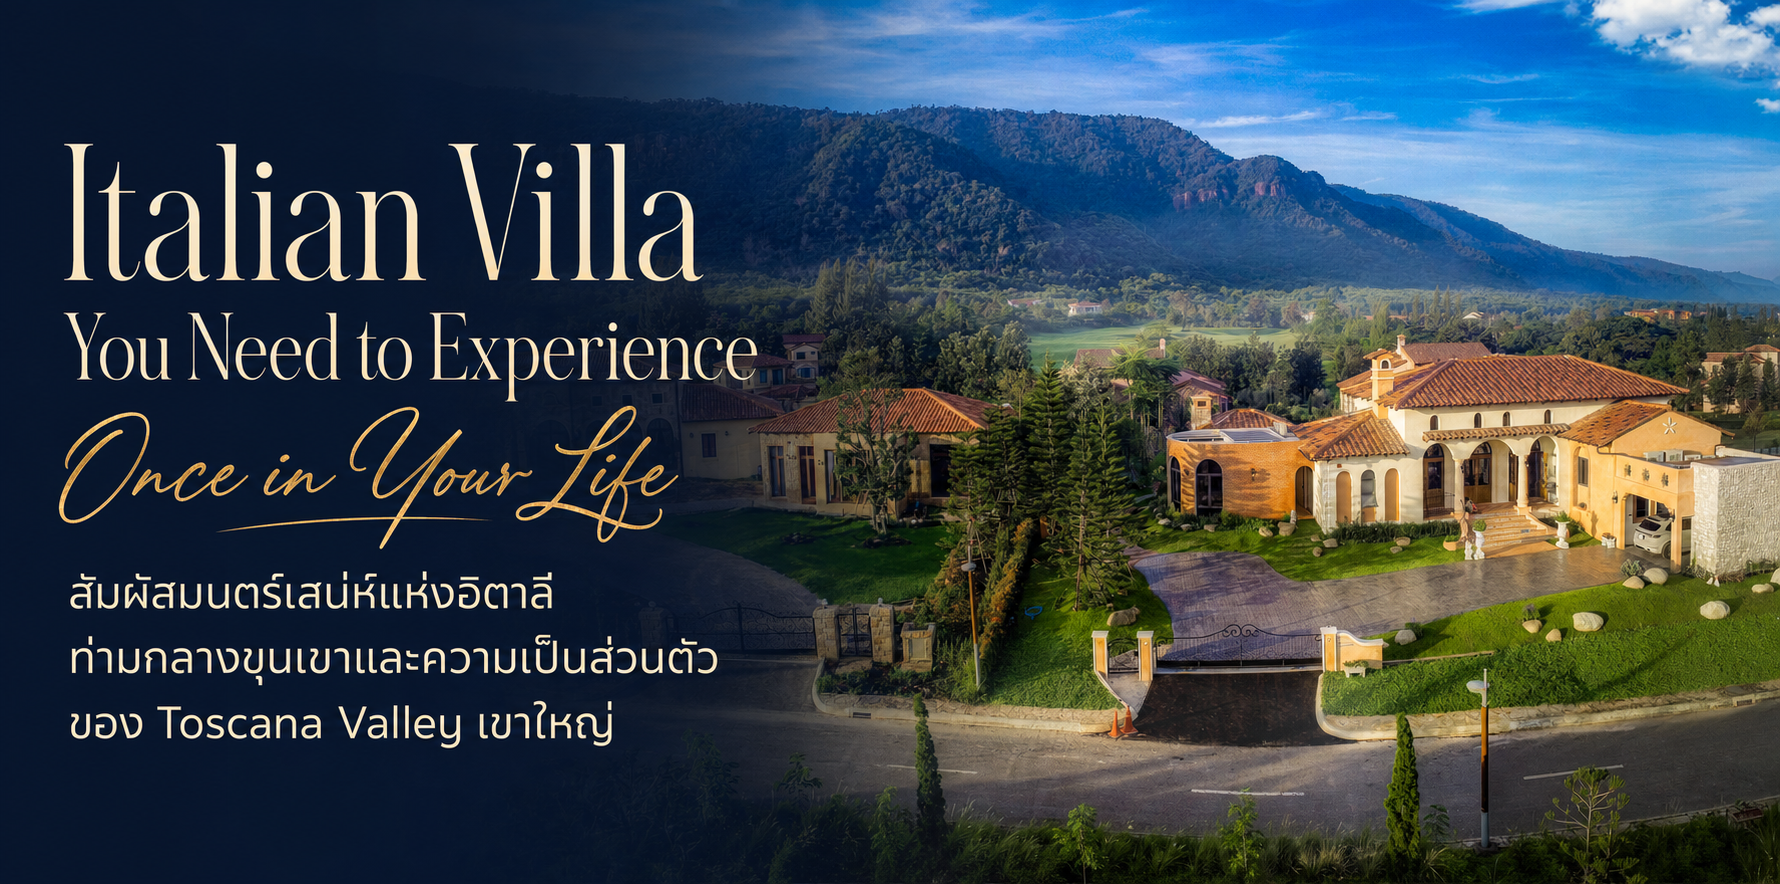
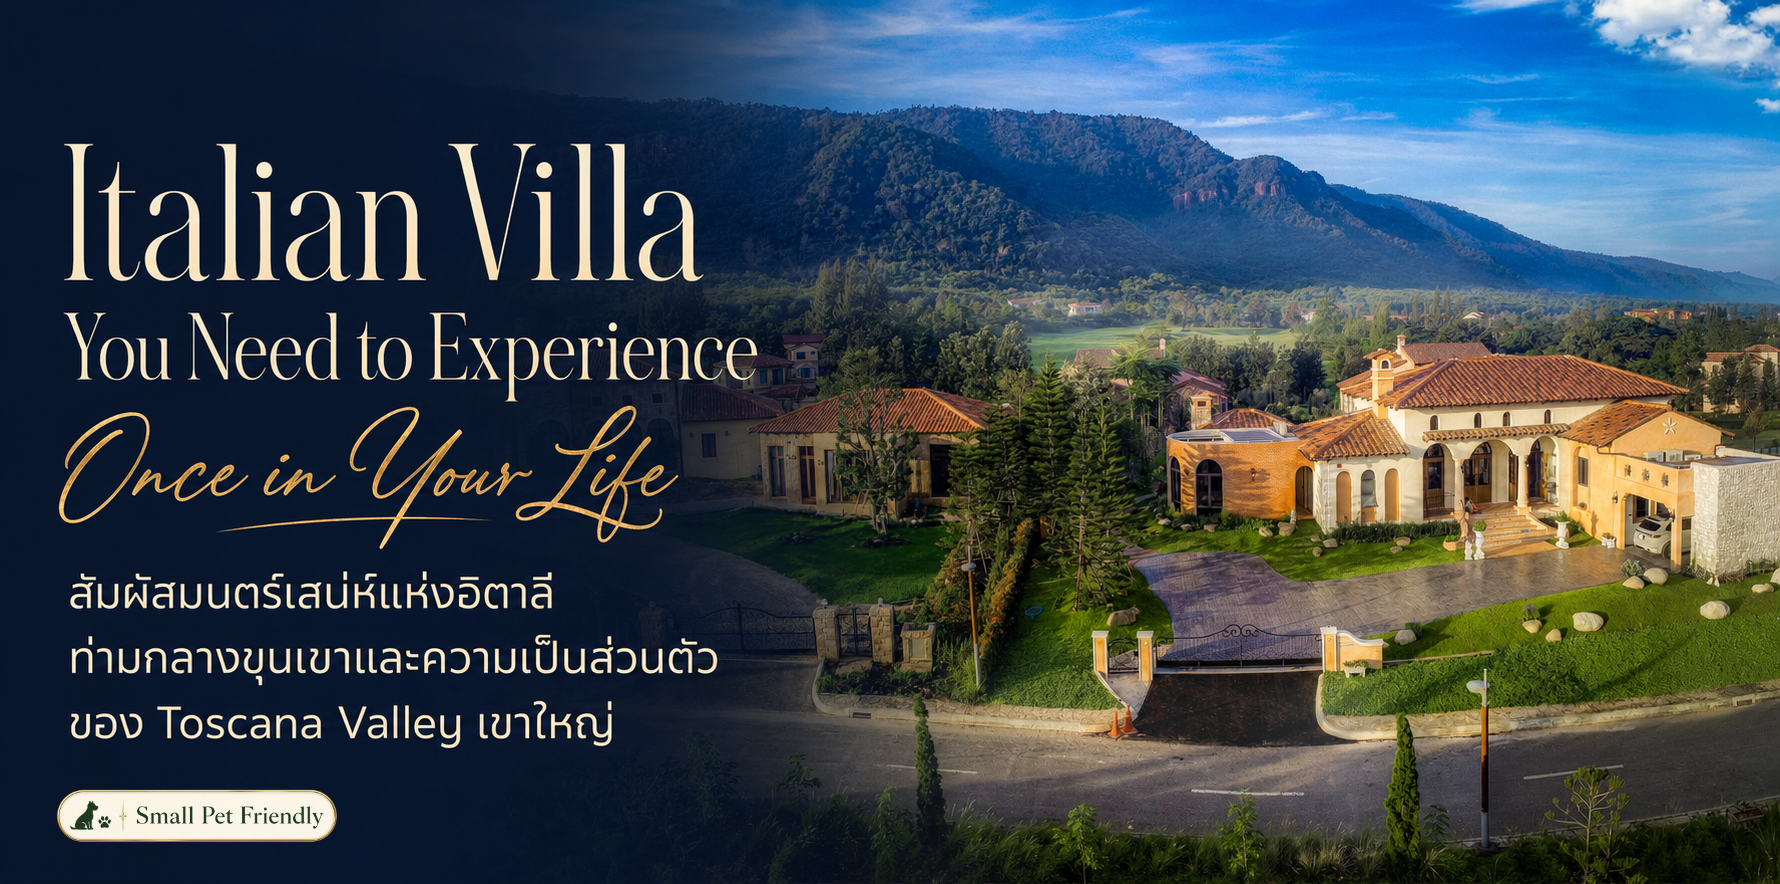
Update site header and remove pet badges

Changed region(s): [[0.0309, 0.8857, 0.1854, 0.9774]]

diff --git a/toscana-villa-site/index.html b/toscana-villa-site/index.html
@@ -12,7 +12,7 @@
     :root{--pine:#073d37;--deep:#062c2b;--cream:#f7f0e3;--paper:#fbf7ef;--gold:#c39135;--ink:#18332e;--muted:#687771;--line:rgba(195,145,53,.38);--shadow:0 24px 65px rgba(15,46,40,.16)}
     *{box-sizing:border-box}html{scroll-behavior:smooth}body{margin:0;color:var(--ink);background:var(--paper);font-family:"Noto Sans Thai",sans-serif;line-height:1.65}img{display:block;width:100%;height:100%;object-fit:cover}a{color:inherit;text-decoration:none}.wrap{width:min(1180px,calc(100% - 40px));margin:auto}
     .topbar{position:sticky;top:0;z-index:20;background:rgba(251,247,239,.92);border-bottom:1px solid rgba(7,61,55,.1);backdrop-filter:blur(14px)}
-    nav{height:74px;display:flex;align-items:center;justify-content:space-between;gap:24px}.brand{display:flex;align-items:center;gap:12px}.monogram{width:42px;height:42px;display:grid;place-items:center;border:1px solid var(--gold);border-radius:50%;color:var(--gold);font:1.15rem "DM Serif Display",serif}.brand-copy{font:1.35rem "DM Serif Display",serif;letter-spacing:.03em}.brand-copy small{display:block;margin-top:-4px;color:var(--muted);font:500 .58rem "Noto Sans Thai",sans-serif;letter-spacing:.18em;text-transform:uppercase}.links{display:flex;align-items:center;gap:26px;font-size:.84rem;font-weight:600;letter-spacing:.03em}.links a:hover{color:var(--gold)}.book{padding:10px 18px;color:#fff!important;background:var(--pine);border-radius:999px}
+    nav{height:74px;display:flex;align-items:center;justify-content:space-between;gap:24px}.brand{display:flex;align-items:center;gap:12px}.monogram{width:42px;height:42px;display:grid;place-items:center;border:1px solid var(--gold);border-radius:50%;color:var(--gold);font:1.15rem "DM Serif Display",serif}.brand-copy{font:1.35rem "DM Serif Display",serif;letter-spacing:.03em}.brand-copy small{display:block;margin-top:2px;color:var(--muted);font:500 .62rem/1.45 "Noto Sans Thai",sans-serif;letter-spacing:.12em;text-transform:uppercase}.brand-copy small span{display:block}.links{display:flex;align-items:center;gap:26px;font-size:.84rem;font-weight:600;letter-spacing:.03em}.links a:hover{color:var(--gold)}.book{padding:10px 18px;color:#fff!important;background:var(--pine);border-radius:999px;font-family:"Noto Sans Thai",sans-serif;font-weight:500;letter-spacing:0}
     .hero{position:relative;padding:26px 0 0;overflow:hidden;background:var(--cream)}.hero>img{width:min(1180px,calc(100% - 40px));height:auto;max-height:none;margin:0 auto;object-fit:contain;box-shadow:var(--shadow)}.hero:after{display:none}.hero-copy{position:absolute;z-index:2;top:26px;bottom:0;left:50%;width:min(1180px,calc(100% - 40px));max-width:none;margin:0;transform:translateX(-50%);display:flex;flex-direction:column;align-items:flex-start;justify-content:center;padding:54px 56px;text-align:left;color:#fff;background:linear-gradient(90deg,rgba(3,35,55,.91) 0%,rgba(3,35,55,.75) 30%,rgba(3,35,55,.16) 51%,transparent 66%)}.hero-copy>*{max-width:470px}.hero-copy .eyebrow{justify-content:flex-start}.eyebrow{display:flex;align-items:center;gap:12px;margin-bottom:22px;color:var(--gold);font-size:.78rem;font-weight:600;letter-spacing:.18em;text-transform:uppercase}.eyebrow:before{content:"";width:48px;height:1px;background:var(--gold)}h1,h2,h3,p{margin-top:0}h1{margin-bottom:18px;font:clamp(2.8rem,4.2vw,4.65rem)/.92 "DM Serif Display",serif;letter-spacing:-.035em}h1 br{display:block}h1 span{display:block;margin-top:18px;font:600 clamp(1.05rem,1.55vw,1.5rem)/1.45 "Noto Sans Thai",sans-serif;letter-spacing:0}.lead{margin:0 0 28px;color:rgba(255,255,255,.84);font-size:.98rem}.cta{display:inline-flex;align-items:center;gap:14px;padding:14px 22px;background:var(--gold);color:#102f2b;border-radius:2px;font-weight:700}.cta span{font-size:1.25rem}
     .intro{padding:88px 0 34px;color:#fff;background-color:#062d4a;background-image:radial-gradient(rgba(255,255,255,.13) 1px,transparent 1px);background-size:26px 26px}.intro .wrap{width:min(1680px,calc(100% - 32px))}.section-head{text-align:center;max-width:790px;margin:0 auto 42px}.kicker{color:var(--gold);font:.76rem/1 "Noto Sans Thai",sans-serif;font-weight:700;letter-spacing:.19em;text-transform:uppercase}.section-head h2{margin:10px 0 12px;font:clamp(2.35rem,5vw,4.5rem)/1 "DM Serif Display",serif}.section-head h2 span{display:block;margin-top:14px;font:700 clamp(1.15rem,2.6vw,1.9rem)/1.45 "Noto Sans Thai",sans-serif}.section-head p{color:var(--muted)}.intro .section-head p{color:rgba(255,255,255,.72)}
     .thumbs{display:grid;grid-template-columns:repeat(4,1fr);gap:10px;margin:0;width:100%}.thumb{position:relative;aspect-ratio:4/3;overflow:hidden}.thumb img{transition:transform .55s ease}.thumb:hover img{transform:scale(1.05)}.thumb:after{content:"";position:absolute;inset:auto 0 0;height:35%;background:linear-gradient(transparent,rgba(2,30,28,.55))}
@@ -20,7 +20,7 @@
     .panorama{height:min(66vw,760px);position:relative}.panorama:after{content:"";position:absolute;inset:0;background:linear-gradient(0deg,rgba(3,33,30,.68),transparent 55%)}.pano-copy{position:absolute;z-index:1;left:max(20px,calc((100% - 1140px)/2));bottom:54px;color:#fff;max-width:650px}.pano-copy h2{margin:8px 0;font:clamp(2.7rem,6vw,5.7rem)/1 "DM Serif Display",serif}.pano-copy p{color:rgba(255,255,255,.8)}
     .gallery{padding:100px 0;background:#f0e4cf}.gallery-grid{margin-top:38px;display:grid;grid-template-columns:repeat(12,1fr);grid-auto-rows:180px;gap:14px}.tile{overflow:hidden}.tile:nth-child(1){grid-column:span 7;grid-row:span 3}.tile:nth-child(2){grid-column:span 5;grid-row:span 2}.tile:nth-child(3){grid-column:span 5;grid-row:span 2}.tile:nth-child(4),.tile:nth-child(5){grid-column:span 6;grid-row:span 2}.tile img{transition:transform .65s ease}.tile:hover img{transform:scale(1.035)}
     .contact{padding:92px 0;text-align:center;color:#fff;background:var(--pine)}.contact h2{margin:12px 0 18px;font:clamp(2.5rem,5vw,4.7rem)/1 "DM Serif Display",serif}.contact p{max-width:620px;margin:0 auto 30px;color:rgba(255,255,255,.72)}footer{padding:24px 0;color:#bfc9c4;background:#031e1d;font-size:.78rem}.footer-row{display:flex;justify-content:space-between;gap:20px}
-    @media(max-width:800px){.links a:not(.book){display:none}.wrap{width:min(100% - 28px,1180px)}nav{height:66px}.brand-copy{font-size:1.1rem}.hero{padding-top:14px}.hero>img{width:calc(100% - 28px)}.hero-copy{position:static;width:calc(100% - 28px);margin:auto;transform:none;display:block;padding:38px 0 48px;text-align:center;color:var(--ink);background:none}.hero-copy>*{max-width:650px;margin-left:auto;margin-right:auto}.hero-copy .eyebrow{justify-content:center}.hero-copy .lead{color:var(--muted)}h1 br{display:none}.intro,.gallery{padding:70px 0}.intro{padding-bottom:14px}.intro .wrap{width:calc(100% - 20px)}.thumbs{grid-template-columns:repeat(2,1fr);gap:8px}.experience{padding:78px 0}.experience-grid{grid-template-columns:1fr;gap:52px}.portrait{height:570px}.facts{grid-template-columns:1fr 1fr}.panorama{height:620px}.pano-copy{left:22px;right:22px;bottom:34px}.gallery-grid{grid-auto-rows:135px}.tile:nth-child(n){grid-column:span 6;grid-row:span 2}.tile:first-child{grid-column:span 12;grid-row:span 3}.footer-row{flex-direction:column;text-align:center}}
+    @media(max-width:800px){.links a:not(.book){display:none}.wrap{width:min(100% - 28px,1180px)}nav{height:66px}.brand-copy{font-size:1.1rem}.brand-copy small{font-size:.56rem;letter-spacing:.08em}.hero{padding-top:14px}.hero>img{width:calc(100% - 28px)}.hero-copy{position:static;width:calc(100% - 28px);margin:auto;transform:none;display:block;padding:38px 0 48px;text-align:center;color:var(--ink);background:none}.hero-copy>*{max-width:650px;margin-left:auto;margin-right:auto}.hero-copy .eyebrow{justify-content:center}.hero-copy .lead{color:var(--muted)}h1 br{display:none}.intro,.gallery{padding:70px 0}.intro{padding-bottom:14px}.intro .wrap{width:calc(100% - 20px)}.thumbs{grid-template-columns:repeat(2,1fr);gap:8px}.experience{padding:78px 0}.experience-grid{grid-template-columns:1fr;gap:52px}.portrait{height:570px}.facts{grid-template-columns:1fr 1fr}.panorama{height:620px}.pano-copy{left:22px;right:22px;bottom:34px}.gallery-grid{grid-auto-rows:135px}.tile:nth-child(n){grid-column:span 6;grid-row:span 2}.tile:first-child{grid-column:span 12;grid-row:span 3}.footer-row{flex-direction:column;text-align:center}}
     @media(max-width:480px){h1{font-size:3.35rem}.thumbs{gap:6px}.portrait{height:480px}.facts{grid-template-columns:1fr}.panorama{height:520px}.gallery-grid{display:block}.tile{height:260px;margin-bottom:10px}}
     .hero{background:#062d4a}
     .intro .thumbs{gap:10px}
@@ -94,7 +94,7 @@
   </style>
 </head>
 <body>
-  <header class="topbar"><nav class="wrap"><a class="brand" href="#home"><span class="monogram">VT</span><span class="brand-copy">Villa Toscana<small>Khao Yai · Thailand</small></span></a><div class="links"><a href="#villa">The Villa</a><a href="#experience">Experience</a><a href="#gallery">Gallery</a><a class="book" href="#contact">สอบถามรายละเอียด</a></div></nav></header>
+  <header class="topbar"><nav class="wrap"><a class="brand" href="#home"><span class="monogram">VT</span><span class="brand-copy">Casa Vacanze<small><span>Toscana Valley · Khao Yai</span><span>Pak Chong · Thailand</span></small></span></a><div class="links"><a href="#villa">The Villa</a><a href="#experience">Experience</a><a href="#gallery">Gallery</a><a class="book" href="#contact">สอบถามรายละเอียด</a></div></nav></header>
   <main>
     <section class="hero" id="home"><img src="images/hero-main.png" alt="Italian Villa ท่ามกลางขุนเขาและความเป็นส่วนตัวของ Toscana Valley เขาใหญ่" fetchpriority="high"></section>
     <section class="intro" id="villa"><div class="wrap"><div class="section-head"><h2>Your Italian Escape<span>เมื่อเสน่ห์แห่งอิตาลี ที่เปลี่ยนทุกวันให้เป็นการพักผ่อนแสนพิเศษ</span></h2><a class="explore-prompt" href="#experience"><span>เริ่มสำรวจบ้านของเรา</span><small>Start to explore →</small></a></div><div class="thumbs"><figure class="thumb"><img src="images/card-living.png" alt="ห้องนั่งเล่นเพดานสูงของวิลล่า" loading="lazy"></figure><figure class="thumb"><img src="images/card-courtyard.png" alt="ทางเดินริมสระและสวนของวิลล่า" loading="lazy"></figure><figure class="thumb"><img src="images/card-pool.png" alt="สระว่ายน้ำส่วนตัวช่วงพระอาทิตย์ตก" loading="lazy"></figure><figure class="thumb"><img src="images/card-entrance.png" alt="ประตูทางเข้าวิลล่าและสวนดอกไม้" loading="lazy"></figure></div></div></section>